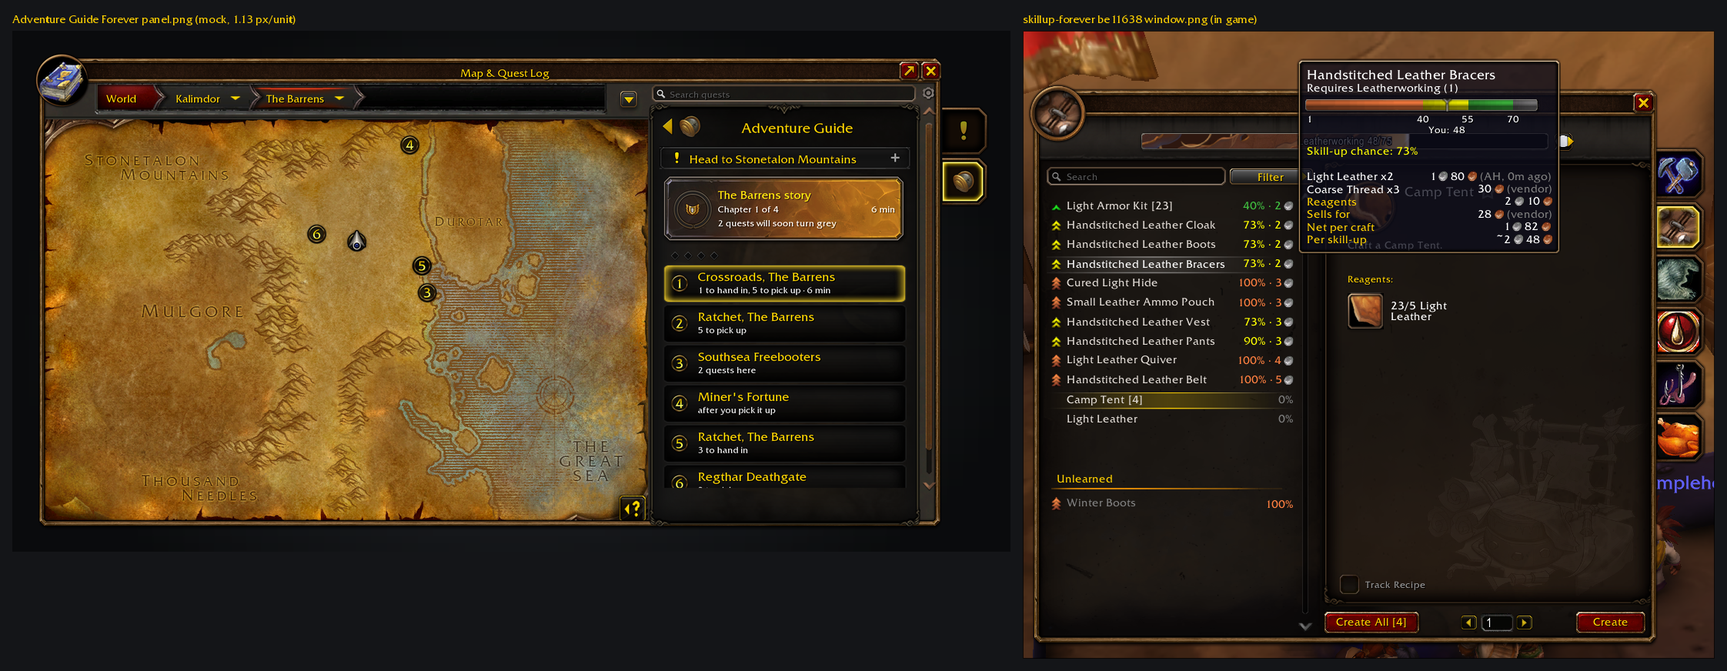
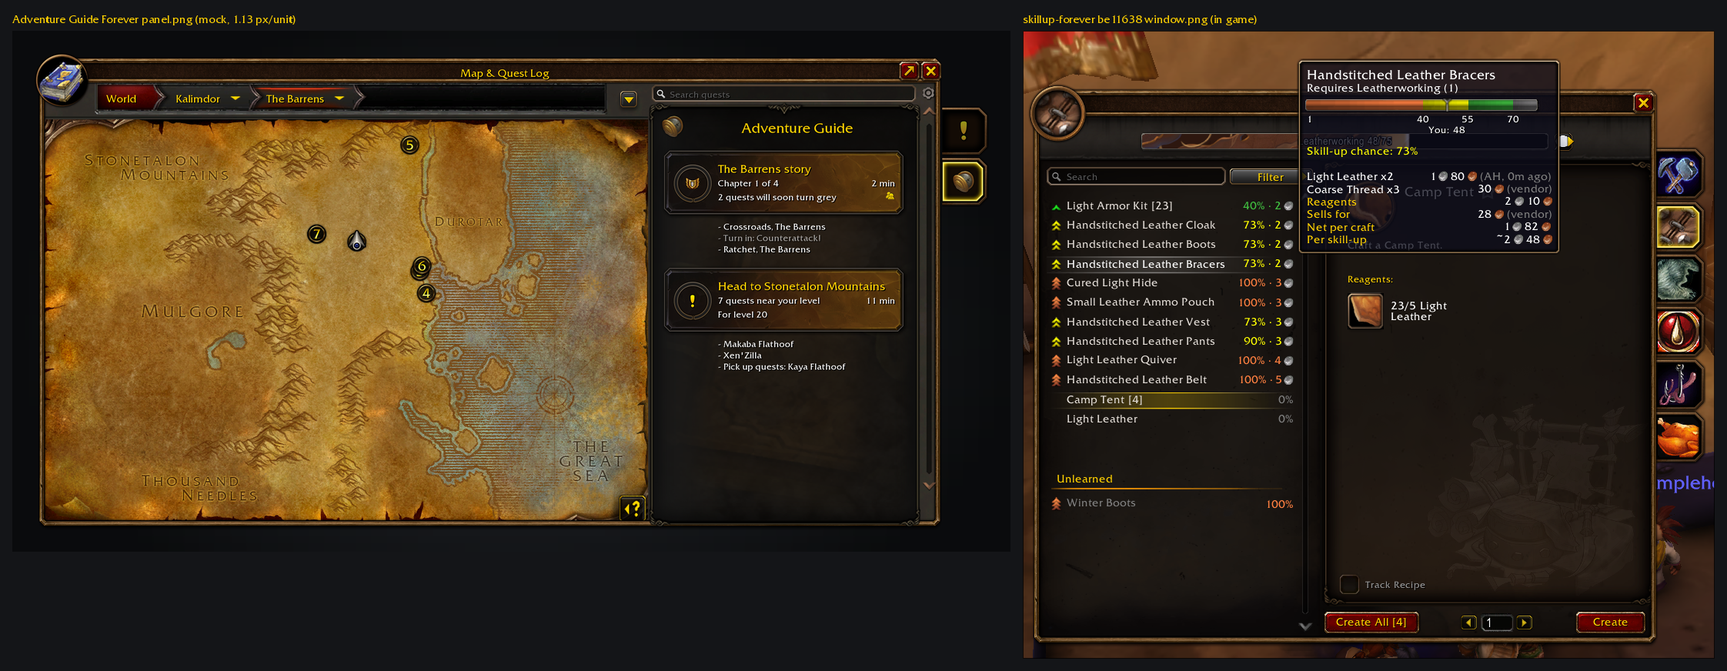
feat(panel): an overview of every journey while none is chosen
With no card chosen the guide drew the first card whole over its steps
with the others as rows, which looked the same as the chosen view
whenever the chosen card was the first: the back arrow seemed to do
nothing. The unchosen state is now an overview: the aside, then every
card whole and unlit in order, each over its first three steps in small
text. A click chooses a card (lit over its numbered steps, the others
folded above); the back arrow returns to the overview. The tracker, map
preview and unsent route behind it are unchanged.

Claude-Session: https://claude.ai/code/session_01Tw2pFx5ck2PCNi8HRu6CA1

Changed region(s): [[0.3743, 0.1548, 0.5615, 0.7431], [0.2184, 0.4025, 0.2496, 0.4335]]

diff --git a/tools/screenshots.py b/tools/screenshots.py
@@ -975,13 +975,13 @@ def render(out):
     data, rects = layout_pass(ui, ("panel", "journeys", "search"), known_frames(frame))
     images = {}
 
-    canvas, _ = quest_log(ui, data, rects, "panel", data["panel"]["pins"])
+    # The lead image: no card chosen yet, the overview of every card whole over its first steps.
+    canvas, _ = quest_log(ui, data, rects, "journeys", data["journeys"]["pins"])
     images["panel"] = wm.scene(ui, [(canvas, 0, 0)])
 
-    # No card chosen yet: every card whole, and no rings, since the guide lists no steps.
-    canvas, frame = quest_log(ui, data, rects, "journeys", data["journeys"]["pins"])
-    qx, qy, qw, qh = frame["quests"]
-    images["journeys"] = wm.scene(ui, [(crop(canvas, qx - 3, qy - 30, qw + 3 + 64, qh + 30 + 22), 0, 0)])
+    # The Barrens story chosen: lit over its numbered steps, their rings on the map, the others folded above it.
+    canvas, _ = quest_log(ui, data, rects, "panel", data["panel"]["pins"])
+    images["chosen"] = wm.scene(ui, [(canvas, 0, 0)])
 
     canvas, frame = quest_log(ui, data, rects, "search", data["panel"]["pins"])
     qx, qy, qw, qh = frame["quests"]

diff --git a/docs/design.md b/docs/design.md
@@ -20,8 +20,8 @@ Forever pillars (Blizzard, *What's Next* panel recap):
   not XP.
 - **The journey before the destination.** The player chooses from a handful of journeys (six at most): the story
   where they are, the zones they could head to next, and a dungeon or their calling when one fits. Until they do, the
-  guide draws the first card's steps on its own, so a new character has a route without a click; a choice overrides
-  it.
+  tab is an overview of every card, and the tracker and map draw the first card's steps on their own, so a new
+  character has a route without a click; a choice overrides it.
   Chains read as a zone's chapters, with later chapter titles left unrevealed. There are no percentages, XP/hour figures or step counters.
   The one exception is the card's hub line ("Lakeshire, Redridge and 2 more stops"). The user asked for it, and it
   counts towns, not progress (plan §7.4).
@@ -60,14 +60,31 @@ tabs (`BLZ/Blizzard_UIPanels_Game/Camelot/QuestMapFrameOverrides.lua:3-6`; PROBE
 inside the existing `ScrollFrameTemplate` (Panel.lua:510).
 
 ```
-+-----------------------------------------------+  308 px pane (QuestMapFrame.xml:648)
++-----------------------------------------------+  none chosen: the overview
+| [Search quests..........................] [*] |
+|-----------------------------------------------|
+|  (t) Visit your class trainer in Orgrimmar    |  the aside, as with one chosen
+| +===========================================+ |  every card whole, unlit, in the route's order
+| | (S)  Westfall story                       | |
+| | ( )  Chapter 2 of 4                6 min  | |
+| |      Continues a story you started        | |
+| +===========================================+ |
+|         - Sentinel Hill, Westfall             |  its first 3 steps, GameFontHighlightSmall, 13 px
+|         - The Defias Brotherhood              |    each, under its text column (x 67), a dash each
+|         - Red Linen Goods                     |    (never a number: those are the chosen card's)
+| +===========================================+ |  10 px on to the next card
+| | (?)  Loose ends                           | |
+|  ...                                          |  scrolls; no chapter track and no step rows
++-----------------------------------------------+
+
++-----------------------------------------------+  308 px pane (QuestMapFrame.xml:648): one chosen
 | [Search quests..........................] [*] |  29 px top bar: SearchBoxTemplate across the width
 |-----------------------------------------------|    (no step count, §1), settings cog
 | [(?) Loose ends                           +] |  the others, one line each: 288x26, 2 px apart
 | [(!) Head to Darkshore                    +] |
-| +===========================================+ |  the shown card, whole, 4 px under the rows: the
-| | (S)  Westfall story                       | |    chosen one (lit, its own art), else the first
-| | ( )  Chapter 2 of 4                       | |    card, unlit
+| +===========================================+ |  the chosen card, whole and lit (its own art),
+| | (S)  Westfall story                       | |    4 px under the rows
+| | ( )  Chapter 2 of 4                       | |
 | +===========================================+ |
 |    [#][#][ ][ ]                               |  chapter track (2.3)
 |  1 Sentinel Hill, Westfall                    |  step rows, 44 px each, 9 at most; a town is titled by its name
@@ -93,12 +110,17 @@ inside the existing `ScrollFrameTemplate` (Panel.lua:510).
   (QuestInfo Raid) wherever it is filed: Zul'Gurub's Paragons of Power are filed under the outdoor Zul'Gurub area and
   given on Yojamba Isle, yet ask for the raid's drops, so only their type says so (83 such quests at the pin).
 - **None chosen** is the default (a fresh character, the back arrow, or a saved choice whose card is no longer
-  offered). The guide draws the first card's steps on its own (auto-start): the route falls back to the first card
-  (`route.chosen` false), which sits whole but unlit over its track and step rows, the others as one-line rows above
-  it, and the tracker, the map preview and the NPC line all follow it. Nothing guides until the player asks: a card
-  or row click, the tracker title, a ring's click or Go. A click on the first card, or on a ring of its route,
-  chooses it. A stale saved key stays saved and is chosen again should its card come back.
-- **One chosen:** the others fold to one-line rows above it, in their order, and it sits whole and lit right over
+  offered), and the tab is the **overview**: the aside, then every card whole and unlit in the route's order (icon,
+  title, subline with its minutes, line 3 and its tags, as §2.2), each over a preview of its first 3 steps
+  (`journey.steps`), one `GameFontHighlightSmall` line each, "- Sentinel Hill, Westfall", optional ones at alpha 0.6.
+  The dash is the tracker's: numbers belong to the chosen card's rows and rings. No chapter track and no step rows;
+  the overview scrolls. It replaced the first card drawn whole over its steps with the others as rows, which looked
+  the same as the chosen view whenever the chosen card was the first, so the back arrow seemed to do nothing.
+  Behind it the route still falls back to the first card (`route.chosen` false, auto-start), and the tracker, the
+  map preview (§2.6) and the NPC line follow that card as before: kept, since the overview lists it first and a
+  click on its ring or the tracker title chooses it. Nothing guides until the player asks: a card click, the tracker
+  title, a ring's click or Go. A stale saved key stays saved and is chosen again should its card come back.
+- **One chosen** (a click on any card in the overview): the others fold to one-line rows above it, in their order, and it sits whole and lit right over
   its track and step rows. Its steps start at the same place whichever card it is (two rows, 58 px, then the card),
   and no card sits between a card and its steps, which the old order did (a middle card's steps pushed the last card
   below the fold). A row chooses its card. The chosen card is no toggle: a click on it turns the map to it again,
@@ -106,9 +128,8 @@ inside the existing `ScrollFrameTemplate` (Panel.lua:510).
 - **Back to all suggestions.** While a card is chosen the header shows the game's back arrow,
   `common-icon-backarrow` (CSV:4624, as Forever's character creation draws it on its Back button), 22x22 at the
   header's left, the compass moved 20 px right of it. Its tooltip is "All suggestions", adding "Also stops the
-  route" while AGF's route runs. A click, or a right-click anywhere on the header, chooses none: the guide draws
-  the first card again with the others as rows above it, and the route AGF started stops, as for any cleared
-  choice. With none chosen the arrow is hidden and the header's right-click does nothing.
+  route" while AGF's route runs. A click, or a right-click anywhere on the header, chooses none: the guide shows the
+  overview again, and the route AGF started stops, as for any cleared choice. With none chosen the arrow is hidden and the header's right-click does nothing.
   No animation: the quest log's own headers fold at once, and a height tween would need an OnUpdate.
 - **Choosing starts the route.** Selecting a card (whole or a row) sets `prefs.journey`, rebuilds the route and, on
   the rebuild that has its steps, hands them to `Integrations.Navigate`: SPF's journey, or the native waypoint
@@ -134,8 +155,9 @@ inside the existing `ScrollFrameTemplate` (Panel.lua:510).
   on the zone maps its `QuestPOIBlob` rows name. Only 26 of the 1795 added quests have a blob, so the zone half is
   narrow; a quest with no blob has no zone and is left out. The slice also lists the 160 added AreaTable IDs, which
   put an unexplored area first (§2.11), and the added lands (§2.11); TaxiNodes and Map diffs are printed only.
-- Fit: the shown card takes 86 px and each other card a 28 px row, so with five others the cards take 226 px and
-  the shown card's step rows scroll below them; the panel's room holds the cards rather than leaving it empty.
+- Fit: with one chosen, it takes 86 px and each other card a 28 px row, so with five others the cards take 226 px
+  and its step rows scroll below them. The overview takes 135 px a card (86, 3 lines of 13, 10 px on), so two or
+  three show at once and six scroll.
 
 ### 2.2 Journey card
 
@@ -154,7 +176,7 @@ lines 367-380: `addonLoaded` false, `EncounterJournal` false, `numTiers` 0).
   Icon 18x18 at CENTER; hover inherits AlphaHighlightButtonTemplate (SharedUIPanelTemplates.xml:1587)
 ```
 
-- **One-line row** (another card is shown): the Settings list's collapsible category header in three slices at its
+- **One-line row** (another card is chosen): the Settings list's collapsible category header in three slices at its
   own 26 px height, `options_listexpand_left` (12x26), `_options_listexpand_middle` (tiled) and
   `options_listexpand_right` (28x26, its "+"), 288x26 in all, with the 16x16 kind icon at LEFT x=12 and no ring, and
   the title (GameFontNormalMed2) at the icon's RIGHT +6. Its tooltip has the title, subline and reason, so nothing is
@@ -408,8 +430,8 @@ no layer at all.
         adventureguide-ring (CSV:1189) + services-number-1..9 (CSV:1645-1653), hover UI-QuestPoi-InnerGlow (CSV:10079)
 ```
 
-- **Preview.** The open guide previews the shown card's rings: the chosen card's, else the first card's, which the
-  guide draws on its own (§2.1); a ring's click chooses that card. Selecting a card turns the map to that journey's
+- **Preview.** The open guide previews the chosen card's rings, else the first card's, which the guide draws on its
+  own behind the overview (§2.1); a ring's click chooses that card. Selecting a card turns the map to that journey's
   first zone (`WorldMapFrame:SetMapID`) and draws only its rings. Hovering a step row flashes its ring (`Pins.Ping`,
   Pins.lua:184-188).
 - **Areas** (a quest's objective area): AGF draws no disc over one. The game's own objective mark shows the area,
@@ -417,8 +439,8 @@ no layer at all.
   hid the map (no stock call shows that shape unhovered on Classic Era: `C_SuperTrack.SetSuperTrackedQuestID` is
   retail's, and super-tracking would take the arrow from the waypoint). An area step's number sits where the route
   enters it (§4.2); while the player stands in step 1's area it has no number.
-  The choice going, however it goes, stops what AGF guides (Core.lua's `wasChosen` listener): the first card is
-  previewed again, nothing guides until a click, and a route the player started in SPF stays.
+  The choice going, however it goes, stops what AGF guides (Core.lua's `wasChosen` listener): the overview shows and
+  the first card is previewed again, nothing guides until a click, and a route the player started in SPF stays.
 - **Layering.** A route ring marks "your destination", so it takes the stock level of the user-waypoint pin,
   `PIN_FRAME_LEVEL_WAYPOINT_LOCATION`. That is above every quest "!" and "?", including the super-tracked one.
   AGF's preview ring uses this level, and SPF's stop ring does too (plan §7.9). Givers stay at `AREA_POI`, below
@@ -581,7 +603,7 @@ arrived, and anything else means cleared. Arrived keeps `guided`; cleared and re
 the route again until the card resumes it.
 
 A chosen journey the full build no longer has ends: its route is cancelled and the choice cleared, so the guide
-draws the first card again. A Quests or Dungeons filter keeps the key (the player's own toggle can bring it back) but stops the
+shows the overview again. A Quests or Dungeons filter keeps the key (the player's own toggle can bring it back) but stops the
 route; Quests covers `zone:` and `chain:` keys and `calling`, Dungeons `dungeon:` keys, except with no next zone,
 when Dungeons hides nothing. Skipping every step of a chosen journey ends it the same way, quietly.
 
@@ -1073,9 +1095,10 @@ Nothing below has been validated in game yet.
     shows above the cards and in the tracker with the class trainer mark and no ring; its click goes to the nearest
     trainer; its X, Skip for now and Not interested hide it, and the cog's "Skipped (1)" brings it back. Without
     Tweaks Forever, nothing changes.
-11. With no journey chosen the guide draws the first card whole over its steps, unlit, with its rings on the map and
-    its step 1 in the tracker, and nothing guides; the tracker title or a ring's click chooses that card and starts
-    its route.
+11. With no journey chosen the tab is the overview: every card whole and unlit, each with its counts, minutes and
+    its first 2 or 3 steps under it in small white text (an optional one faded), no chapter squares and no numbered
+    rows, scrolling when there are more cards than fit. The first card's rings are on the map and its step 1 in the
+    tracker, and nothing guides; the tracker title or a ring's click chooses that card and starts its route.
 12. Batch F (plan §7.10): Lakeshire is one stop; a stop ring draws over a super-tracked "?"; the cards show minutes
     and the hub line; the footer's Stop goes as soon as Shortest Path ends the journey.
 13. Batch G (plan §8.2): a chosen journey lasts through travel, turn-ins and `/reload`, and a paused route resumes
@@ -1161,9 +1184,13 @@ Nothing below has been validated in game yet.
 36. Back (§2.1): with nothing chosen the header shows no arrow. Choose a card: the game's yellow back arrow shows
     left of the compass, crisp at 22 px, and lights on hover; its tooltip reads "All suggestions" and "Also stops
     the route". Clicking the lit card keeps the route running and only turns the map to it. The arrow (and, after
-    choosing again, a right-click on the header) unlights the card, draws the first card whole with the others as
-    rows, stops Shortest Path's route or AGF's waypoint, and hides the arrow; the footer's Stop still stops the
+    choosing again, a right-click on the header) unlights the card, shows the overview of every card whole, stops Shortest Path's route or AGF's waypoint, and hides the arrow; the footer's Stop still stops the
     route as before.
+37. Overview (§2.1): from the overview, clicking the second or third card lights it over its numbered steps with the
+    others folded to rows above, turns the map to it and starts its route; the back arrow returns to the overview
+    (every card whole again, no arrow). The previews read cleanly beside the cards (no clipping at the right edge, no
+    overlap with the next card), and scrolling reaches the last card and "Skipped (n)". `/agf dump` with the Barrens
+    story chosen, then `luajit tests/dump_diff.lua` on the saved variables, reports no differences.
 
 ## 9. Open questions that need client probes
 

diff --git a/README.md b/README.md
@@ -12,13 +12,13 @@ Levelling guides tell you exactly what to do, in order, as fast as possible. I w
 
 It looks like it came with the game: a tab in the quest log beside Quests, cards drawn with retail's Journeys art, the game's own map pins and objective tracker, and Blizzard's quest details when you click a quest. With the tab closed it draws nothing on your map.
 
-<p align="center"><img src="https://raw.githubusercontent.com/cjber/adventure-guide-forever/main/docs/screenshots/panel.png" width="640" alt="The Barrens on the world map with the Adventure Guide tab open: the chosen Barrens story card with its seven stops listed and ringed on the map, towns such as Crossroads with their counts (1 to hand in, 8 to pick up, 6 min), and the other journeys folded to one-line rows above it"></p>
+<p align="center"><img src="https://raw.githubusercontent.com/cjber/adventure-guide-forever/main/docs/screenshots/panel.png" width="640" alt="The Barrens on the world map with the Adventure Guide tab open on its overview: The Barrens story (Chapter 1 of 4, 2 min, 2 quests will soon turn grey) and Head to Stonetalon Mountains (7 quests near your level, 11 min, For level 20), each card whole with its first three steps under it"></p>
 
 ## Features
 
-- **Journeys**: up to six cards on the Adventure Guide tab. *Loose ends* counts what is ready to hand in, what is in progress and anything you added yourself; *Westfall story* follows the zone's quest chain; *Head to Duskwood* ("For level 21") and up to two more suggest the zones you've just come into range for, nearest first, once they have enough quests near your level; *Your calling* gathers your class quests ("Your class trainer has a task: The Hunter's Path"). A dungeon and your calling take the slots left, the one whose quests opened most recently first. Each card gives one reason from the quest data, such as "A chain begins with Gryan Stoutmantle", "Sentinel Hill needs hands" or "3 quests will soon turn grey". Until you pick one, the guide shows the first card's steps on its own, up to nine; pick another and its steps take their place.
+- **Journeys**: up to six cards on the Adventure Guide tab. *Loose ends* counts what is ready to hand in, what is in progress and anything you added yourself; *Westfall story* follows the zone's quest chain; *Head to Duskwood* ("For level 21") and up to two more suggest the zones you've just come into range for, nearest first, once they have enough quests near your level; *Your calling* gathers your class quests ("Your class trainer has a task: The Hunter's Path"). A dungeon and your calling take the slots left, the one whose quests opened most recently first. Each card gives one reason from the quest data, such as "A chain begins with Gryan Stoutmantle", "Sentinel Hill needs hands" or "3 quests will soon turn grey". Until you pick one, the tab is an overview: every card whole, with its counts, its minutes and its first three steps under it. Click a card to pick it, and its steps show in full, up to nine, with the other cards folded above it.
 - **Stories as chapters**: a chain reads "Chapter 2 of 4" only when the quest data proves its length, and "Chapter 2" otherwise. Later chapters are never named. Finishing a story of known length glows the tracker once and plays the game's stage-end sound.
-- **Choose and go**: choosing a card turns the map to its zone, previews its numbered steps and hands them to Shortest Path Forever as one journey, or sets the game's own waypoint without it. In combat it starts once the fight ends. The back arrow above the cards (or a right-click on the guide's title) brings back all suggestions. *Stop*, or going back, removes only what the guide set, so a waypoint you moved yourself stays. Once you're in a quest's area the waypoint steps aside until you're done there, and Shortest Path Forever keeps showing the way on to the next stops. A setting turns this off, so choosing only previews.
+- **Choose and go**: choosing a card turns the map to its zone, previews its numbered steps and hands them to Shortest Path Forever as one journey, or sets the game's own waypoint without it. In combat it starts once the fight ends. The back arrow above the cards (or a right-click on the guide's title) brings back the overview. *Stop*, or going back, removes only what the guide set, so a waypoint you moved yourself stays. Once you're in a quest's area the waypoint steps aside until you're done there, and Shortest Path Forever keeps showing the way on to the next stops. A setting turns this off, so choosing only previews.
 - **Routes by distance**: steps are ordered by where they are, cross the sea at most once, and a turn-in on the other continent waits at the end with "Hand in when you're in Stormwind City".
 - **Why not?**: type three letters or more in *Search quests* and each match lists what the data says it needs (level, earlier quests, race, class, faction), ticked when you meet it.
 - **Objective tracker section** above your quests: the current step of the journey the guide shows, how you'll get there with Shortest Path Forever ("Fly to Sentinel Hill · 6 min"), and the step after. Click the title to choose that journey and start the route (and, with the setting on, track its quests); right-click for *Go*, *Show quest*, *Skip for now*, *Not this quest* or another journey. After a login, when step 1 is still the step you stopped on, it says "Where you left off".

diff --git a/docs/curseforge.md b/docs/curseforge.md
@@ -4,7 +4,7 @@ Levelling guides tell you exactly what to do, in order, as fast as possible. I w
 
 It looks like it came with the game: a tab in the quest log beside Quests, cards drawn with retail's Journeys art, the game's own objective tracker, and Blizzard's quest details when you click a quest. With the tab closed it draws nothing on your map. It works with Shortest Path Forever for travel, and loads alongside Questie or RestedXP, though their routes may overlap.
 
-![The Barrens on the world map with the Adventure Guide tab open: the chosen Barrens story card with its seven stops listed and ringed on the map, towns such as Crossroads with their counts (1 to hand in, 8 to pick up, 6 min), and the other journeys folded to one-line rows above it](https://raw.githubusercontent.com/cjber/adventure-guide-forever/main/docs/screenshots/panel.png)
+![The Barrens on the world map with the Adventure Guide tab open on its overview: The Barrens story (Chapter 1 of 4, 2 min, 2 quests will soon turn grey) and Head to Stonetalon Mountains (7 quests near your level, 11 min, For level 20), each card whole with its first three steps under it](https://raw.githubusercontent.com/cjber/adventure-guide-forever/main/docs/screenshots/panel.png)
 
 The tracker keeps the step you are on in view, above your quests:
 
@@ -12,9 +12,9 @@ The tracker keeps the step you are on in view, above your quests:
 
 ## Features
 
-- **Journeys**: up to six cards. Tie up the loose ends in your log, follow a zone's story, pick one of the zones that just came into range for your level, or take up your class quests. The first card's steps show until you pick another, up to nine.
+- **Journeys**: up to six cards. Tie up the loose ends in your log, follow a zone's story, pick one of the zones that just came into range for your level, or take up your class quests. Until you pick one, the tab shows every card whole with its first steps; pick one for its full route, up to nine steps.
 - **Stories as chapters**: "Chapter 2 of 4" only when the data proves the chain's length. Later chapters are never named.
-- **Choose and go**: choosing a card previews its steps on the map and hands the route to Shortest Path Forever, boats and flight paths included, or sets the game's own waypoint. In a quest's area the waypoint steps aside until you're done there, and Shortest Path Forever keeps showing the way on. A setting makes choosing preview only. The back arrow brings back all suggestions. *Stop* never removes a waypoint you placed yourself.
+- **Choose and go**: choosing a card previews its steps on the map and hands the route to Shortest Path Forever, boats and flight paths included, or sets the game's own waypoint. In a quest's area the waypoint steps aside until you're done there, and Shortest Path Forever keeps showing the way on. A setting makes choosing preview only. The back arrow brings back the overview. *Stop* never removes a waypoint you placed yourself.
 - **Routes by distance** cross the sea at most once; a turn-in on the other continent waits until you are there.
 - **Why not?**: search a quest and see what it needs, ticked when you meet it.
 - **Objective tracker section** above your quests: the current step, how you'll get there, and the next one. Click the title to start the route; right-click to skip a step or pick another journey. Right-click a card if you are not interested in it.

diff --git a/docs/plan.md b/docs/plan.md
@@ -125,7 +125,7 @@ Auberdine). The client moved past the atlas CSV's build (69913); the plain names
   - Recipes exist for the templates the dump actually names (`QuestLogTabButtonTemplate` is not among them; the tabs are `LargeSideTabButtonTemplate`). The tracker and menu frames are wowmock's, filled with the addon's text from the harness.
   - `pip` is not installed on the machine that pinned the environment, so the header records `importlib.metadata`'s Pillow version, the wowmock sha256 and the font hashes.
 - **Stock chrome.** Stock templates produce no regions headlessly, so `screenshots.py` keeps one small recipe per `stockTemplate` the dump names (`SearchBoxTemplate`, `UIPanelButtonTemplate`, `ScrollFrameTemplate`, `QuestLogBorderFrameTemplate`, `LargeSideTabButtonTemplate`, `QuestLogTabButtonTemplate`, the tracker header), each citing its BLZ XML, as the wow-mock-screenshots skill does. An unknown `stockTemplate` fails the run. AGF's own layout is never re-described in Python.
-- **Scenes.** `docs/screenshots/{panel,search,map,tracker,menu,tooltip}.png`.
+- **Scenes.** `docs/screenshots/{panel,chosen,search,map,tracker,menu,tooltip}.png` (panel.png is the overview, chosen.png the chosen story).
 - **Route geometry (map scene only).** This is the SPF line as SPF itself draws it while guiding; AGF draws no lines. It comes from SPF's LuaJIT `Path.FindSync(map, from, to)` (shortest-path-forever `Path.lua:1516`), run with `luajit -` in `tools/.cache/spf-<sha>/`. That directory is extracted with `git -C $SPF archive <sha>`, and the fallback is `https://codeload.github.com/cjber/shortest-path-forever/tar.gz/<sha>`. SPF's own `tools/screenshots.py:91,134` does the same.
 - **Manifest.** `docs/screenshots/manifest.txt` records the build (1.60.1.69913), the SPF sha, the layout.json sha256 and each PNG's sha256. PNGs are saved without timestamps.
 - **Pillow is optional in CI.** `tools/typecheck.sh` runs `unittest discover -s tools` in CI, where Pillow is not installed. `screenshots.py` imports Pillow inside its render functions only. `tools/screenshots_test.py` tests the Pillow-free anchor-to-rect resolver, and any render test is `skipUnless(importlib.util.find_spec("PIL"))`.
